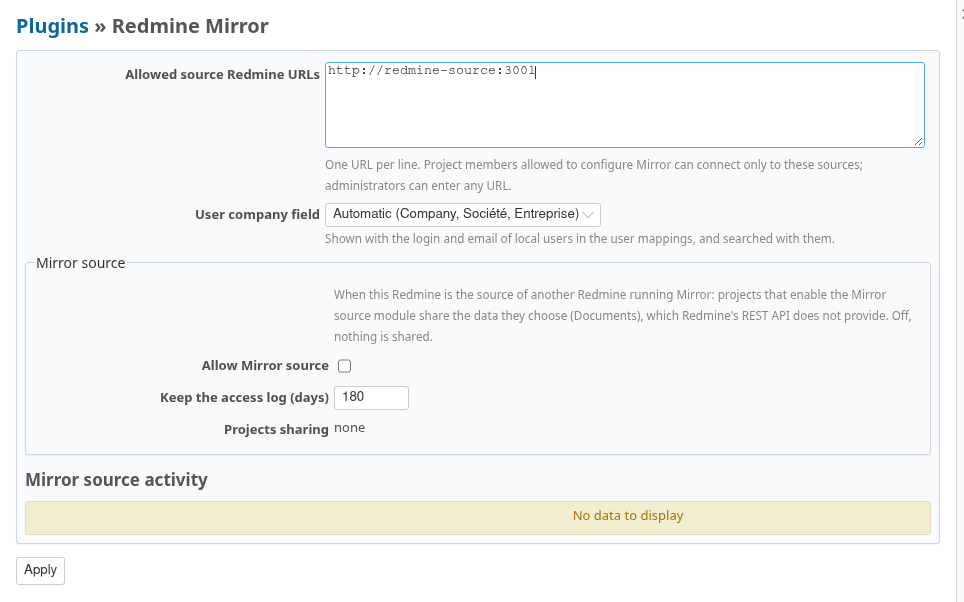
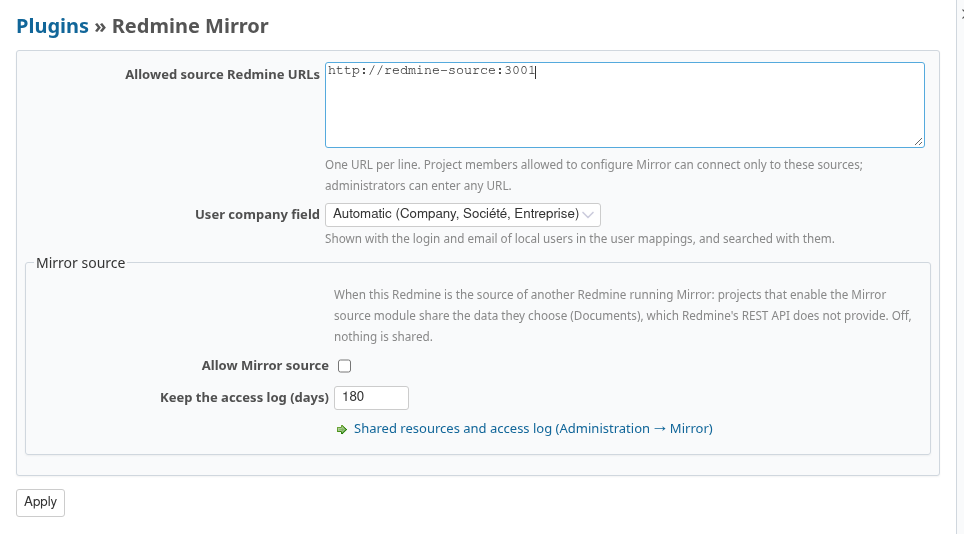
Add a sidebar to Administration > Mirror with the Mirror source page (1.0.0-beta.19)
- Administration > Mirror gains a sidebar, as in Redmine SLA: Destination: mirrored
  projects (the former overview), Source: shared resources, and the plugin
  configuration.
- Source: shared resources shows whether Mirror source is allowed, the projects that
  enabled it with what they share, their last access and sessions, then the sessions
  of every project, filtered by project or to those with refusals, each with its
  details. The plugin settings keep the switch and the retention, with a link to it.

diff --git a/assets/stylesheets/mirror.css b/assets/stylesheets/mirror.css
@@ -90,3 +90,8 @@
 /* Mirror source: refused accesses stand out in the access log. */
 tr.mirror-source-refused td { color: #c22; }
 .mirror-module-hint { display: inline; }
+
+/* Administration > Mirror sidebar and source page. */
+.mirror-admin-sidebar a.selected { font-weight: bold; }
+#mirror-admin-source-filters fieldset label { margin-right: 1em; }
+p.mirror-source-on { color: #2a7a2a; }

diff --git a/test/integration/mirror_source_settings_test.rb b/test/integration/mirror_source_settings_test.rb
@@ -76,21 +76,53 @@ class MirrorSourceSettingsTest < Redmine::IntegrationTest
     assert_select "table.mirror-source-accesses tr.mirror-source-refused td", text: "Documents not shared"
   end
 
-  def test_administrator_switches_mirror_source_and_sees_activity_across_projects
-    @project.enable_module!(:mirror_source)
-    MirrorSourceSetting.create!(project: @project, shared_modules: %w[documents])
-    log_access("list", object_count: 3)
+  def test_administrator_switches_mirror_source_in_the_plugin_settings
     log_user("admin", "admin")
     get "/settings/plugin/redmine_mirror"
     assert_select "#settings_source_enabled:not([checked])"
-    assert_select "#mirror-source-settings a[href='/projects/ecookbook/settings/mirror_source']", text: /eCookbook \(Documents\)/
-    assert_select "table.mirror-source-sessions tbody tr", count: 1 do
-      assert_select "td a[href='/projects/ecookbook']"
-    end
+    assert_select "#mirror-source-settings a[href='/admin/mirror/source']"
     post "/settings/plugin/redmine_mirror", params: { settings: { allowed_source_urls: "", user_company_field_id: "", source_enabled: "1", source_log_days: "30" } }
     assert RedmineMirror::Source.enabled?
     assert_equal 30, RedmineMirror::Source.retention_days
     post "/settings/plugin/redmine_mirror", params: { settings: { allowed_source_urls: "", user_company_field_id: "", source_enabled: "", source_log_days: "30" } }
     assert_not RedmineMirror::Source.enabled?
+  end
+
+  # Administration > Mirror > Source: projects, sessions of every project, filters, one session.
+  def test_administration_lists_sharing_projects_and_sessions_across_projects
+    @project.enable_module!(:mirror_source)
+    MirrorSourceSetting.create!(project: @project, shared_modules: %w[documents])
+    Project.find(2).enable_module!(:mirror_source)
+    log_access("list", object_count: 3)
+    log_access("refused", project: Project.find(2), session_key: "a" * 32, reason: "not_shared")
+    log_user("admin", "admin")
+    get "/admin/mirror/source"
+    assert_response :success
+    assert_select ".mirror-admin-sidebar a.selected[href='/admin/mirror/source']"
+    assert_select ".mirror-admin-sidebar a[href='/admin/mirror']"
+    assert_select "#mirror-admin-source-status.warning"
+    assert_select "table.mirror-admin-source-projects tbody tr", count: 2
+    assert_select "table.mirror-admin-source-projects td", text: "Documents"
+    assert_select "table.mirror-source-sessions tbody tr", count: 2
+    get "/admin/mirror/source", params: { refused: "1" }
+    assert_select "table.mirror-source-sessions tbody tr", count: 1 do
+      assert_select "td a[href='/projects/onlinestore']"
+    end
+    get "/admin/mirror/source", params: { project_id: @project.id }
+    assert_select "table.mirror-source-sessions tbody tr", count: 1 do
+      assert_select "a[href='/admin/mirror/source?project_id=#{@project.id}&session=#{SESSION}']", text: "Details"
+    end
+    get "/admin/mirror/source", params: { project_id: @project.id, session: SESSION }
+    assert_select "table.mirror-source-accesses tbody tr", count: 1
+    with_settings(plugin_redmine_mirror: { "source_enabled" => "1" }) do
+      get "/admin/mirror/source"
+      assert_select "#mirror-admin-source-status.mirror-source-on"
+    end
+  end
+
+  def test_only_administrators_see_the_source_page
+    log_user("jsmith", "jsmith")
+    get "/admin/mirror/source"
+    assert_response :forbidden
   end
 end

diff --git a/app/controllers/mirror_admin_controller.rb b/app/controllers/mirror_admin_controller.rb
@@ -13,14 +13,16 @@
 # but WITHOUT ANY WARRANTY; without even the implied warranty of
 # MERCHANTABILITY or FITNESS FOR A PARTICULAR PURPOSE. See LICENSE for details.
 #
-# Administration overview: the projects Mirror is configured in, their activity and load.
+# Administration > Mirror: as a destination, the projects Mirror is configured in, their
+# activity and load; as a source, the projects sharing data and every access to it.
 
 class MirrorAdminController < ApplicationController
   layout "admin"
   self.main_menu = false
   menu_item :mirror_admin
   before_action :require_admin
-  before_action :require_migrated_schema
+  before_action :require_migrated_schema, only: :index
+  before_action :require_source_schema, only: :source
 
   helper :queries
   include QueriesHelper
@@ -43,7 +45,37 @@ class MirrorAdminController < ApplicationController
     render_error status: 500
   end
 
+  SESSIONS_PER_PAGE = 50
+
+  # Mirror source: the switch, the projects that enabled the module and what they share,
+  # then the sessions of every project (filtered by project or refusals), or one session.
+  def source
+    @sharing = MirrorSourceSetting.preload(:project).where(project_id: EnabledModule.where(name: "mirror_source").select(:project_id)).to_a
+    @module_projects = Project.where(id: EnabledModule.where(name: "mirror_source").select(:project_id)).sorted.to_a
+    @last_access = MirrorSourceAccess.group(:project_id).maximum(:created_at)
+    @session_counts = MirrorSourceAccess.from(MirrorSourceAccess.select(:project_id, :session_key).distinct, :mirror_source_accesses).group(:project_id).count
+    @session_key = params[:session].to_s
+    if @session_key.match?(RedmineMirror::Source::SESSION) && (@session_project = Project.find_by(id: params[:project_id]))
+      @accesses = MirrorSourceAccess.where(project: @session_project, session_key: @session_key).order(:created_at, :id).preload(:user).to_a
+      return
+    end
+    scope = MirrorSourceAccess.all
+    @filter_project = Project.find_by(id: params[:project_id]) if params[:project_id].present?
+    scope = scope.where(project: @filter_project) if @filter_project
+    @refused_only = params[:refused] == "1"
+    sessions = scope.sessions
+    sessions = sessions.having("SUM(CASE WHEN action = 'refused' THEN 1 ELSE 0 END) > 0") if @refused_only
+    @session_count = MirrorSourceAccess.from(sessions.except(:order, :select).select(:project_id, :session_key), :mirror_source_accesses).count
+    @session_pages = Paginator.new(@session_count, SESSIONS_PER_PAGE, params["page"])
+    @sessions = sessions.offset(@session_pages.offset).limit(@session_pages.per_page).to_a
+  end
+
   private
+
+  def require_source_schema
+    return if MirrorSourceAccess.table_exists? && MirrorSourceSetting.table_exists?
+    render_error message: l(:text_mirror_pending_migrations), status: 503
+  end
 
   def require_migrated_schema
     return if MirrorProjectSetting.schema_current? && MirrorSyncRun.column_names.include?("duration_seconds")

diff --git a/test/documentation/configuration_test.rb b/test/documentation/configuration_test.rb
@@ -278,9 +278,9 @@ class MirrorConfigurationDocumentationTest < ApplicationSystemTestCase
     assert_selector "table.mirror-source-accesses tbody tr", count: 3
     screenshot "30-source-session", "table.mirror-source-accesses"
 
-    visit "/settings/plugin/redmine_mirror"
+    visit "/admin/mirror/source"
     assert_selector "table.mirror-source-sessions tbody tr", count: 2
-    screenshot "31-source-activity", "#content", max_height: 900
+    screenshot "31-source-activity", "#main", max_height: 900
   end
 
   private

diff --git a/config/routes.rb b/config/routes.rb
@@ -17,6 +17,7 @@
 
 get "projects/:project_id/mirror", to: "mirror#index", as: "project_mirror"
 get "admin/mirror", to: "mirror_admin#index", as: "mirror_admin"
+get "admin/mirror/source", to: "mirror_admin#source", as: "mirror_admin_source"
 
 get "projects/:project_id/mirror/settings", to: "mirror_settings#show", as: "project_mirror_settings"
 patch "projects/:project_id/mirror/settings/connection", to: "mirror_settings#update_connection", as: "project_mirror_connection"

diff --git a/doc/CONFIGURATION.md b/doc/CONFIGURATION.md
@@ -264,7 +264,10 @@ issue's subject: the next run leaves it unchanged and reports it.
 
 ## 13. Follow usage and load
 
-`Administration → Mirror` lists the projects Mirror is configured in, as a Redmine query:
+`Administration → Mirror` has two pages in its sidebar: **Destination: mirrored
+projects** (below) and **Source: shared resources**
+([Mirror source](#mirror-source-on-the-source-redmine)). The first lists the projects
+Mirror is configured in, as a Redmine query:
 filters (module, mirror mode, activity, last status, last run date, conflicts…), columns,
 grouping (root or parent project, source Redmine, status…), sorting, totals and CSV
 export. Columns cover the configuration (modules, mirror mode, schedule), the activity
@@ -281,8 +284,7 @@ source Redmine:
 1. Install Redmine Mirror 1.0.0-beta.19 or later and run its migration (see the README).
    Nothing else of Mirror needs configuring there.
 2. `Administration → Plugins → Redmine Mirror → Configure`: check **Allow Mirror
-   source**. Off, nothing is shared, whatever the projects check. The same page shows the
-   projects sharing data and the latest sessions across projects.
+   source**. Off, nothing is shared, whatever the projects check.
 
    ![Mirror source allowed](screenshots/configuration/27-source-allowed.png)
 3. In the project: `Settings → Modules`, enable **Mirror source** (the **Mirror** module
@@ -302,7 +304,10 @@ lists each request and what it sent. Refused requests name the lock that refused
 
 Entries are kept 180 days by default (plugin settings). Configuring the sharing and
 reading the log need the permission *Configure Mirror source and read its access log*.
-The plugin settings list the latest sessions of every project:
+`Administration → Mirror → Source: shared resources` shows whether Mirror source is
+allowed, the projects that enabled the module with what they share, their last access
+and sessions, then the sessions of every project, filtered by project or to those with
+refusals, each with its details:
 
 ![Mirror source activity](screenshots/configuration/31-source-activity.png)
 

diff --git a/CHANGELOG.md b/CHANGELOG.md
@@ -30,11 +30,17 @@ MERCHANTABILITY or FITNESS FOR A PARTICULAR PURPOSE. See LICENSE for details.
   source too, not the attachments API.
 - Every access is logged on the source, grouped by session (one per destination run or
   reference refresh, with its purpose): account, address, documents listed, files sent
-  and refusals, in the project's tab and, for all projects, in the plugin settings.
+  and refusals, in the project's tab and, for all projects, in Administration → Mirror.
   Retention defaults to 180 days (migration 015).
 - The destination shows the requirement next to the Documents module and reports which
   lock to open when the source refuses. The other modules still need nothing on the
   source.
+- **Administration → Mirror** gains a sidebar, as in Redmine SLA: **Destination:
+  mirrored projects** (the former overview) and **Source: shared resources**. The latter
+  shows whether Mirror source is allowed, the projects that enabled it with what they
+  share, their last access and sessions, and the sessions of every project, filtered by
+  project or to those with refusals, each with its details. The plugin settings keep
+  the switch and the retention, with a link to this page.
 
 ## 1.0.0-beta.18 — 2026-10-20
 

diff --git a/test/compatibility/README.md b/test/compatibility/README.md
@@ -23,7 +23,7 @@ Destination (Redmine running Mirror):
 
 | Redmine | Database | Evidence |
 | --- | --- | --- |
-| 6.1.4 | SQLite 3 | Official-image CI runner, locally and on GitHub: Ruby 3.4.11 / Rails 7.2.3.2, 165 Redmine tests / 828 assertions, symlinked install, `zeitwerk:check`, fresh install and uninstall/reinstall. All two-instance smokes in production mode. |
+| 6.1.4 | SQLite 3 | Official-image CI runner, locally and on GitHub: Ruby 3.4.11 / Rails 7.2.3.2, 167 Redmine tests / 846 assertions, symlinked install, `zeitwerk:check`, fresh install and uninstall/reinstall. All two-instance smokes in production mode. |
 | 5.1.13 | SQLite 3 | Two-instance write smokes in production mode (`versions.sh`). Full Redmine plugin suite run once locally on the `reporting-compat-ready:5.1.13` image (1.0.0-beta.18); not part of the CI runner. |
 | 5.0 / 6.0 / 7.x | Not validated | No compatibility claim |
 | Any version | PostgreSQL / MariaDB / MySQL | Not validated |
